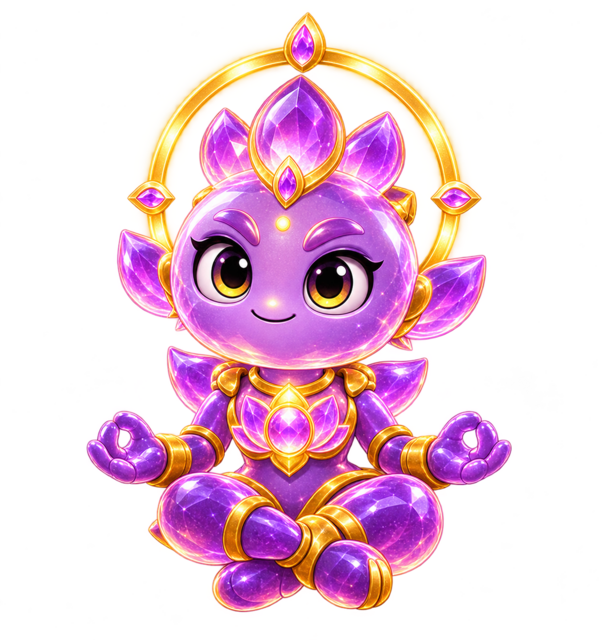
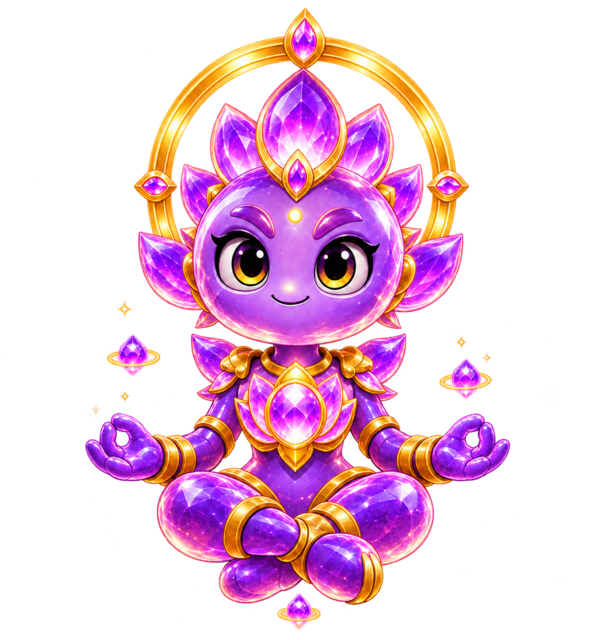
v11.00: natural companion motion and distinct evolution forms

diff --git a/park2.js b/park2.js
@@ -2,21 +2,21 @@
   'use strict';
 
   var CHARACTERS = [
-    { key:'ai_tools', label:'AI Tools', image:'img/lab/park2/ai-tools.png', type:'skill', home:[.17,.43], pace:.48,
+    { key:'ai_tools', label:'AI Tools', image:'img/lab/park2/ai-tools.png', type:'skill', home:[.17,.43], pace:.48, motion:'hover', roam:.21,
       states:['Scant het park','Bouwt een nieuw systeem','Analyseert patronen'], copy:'Wordt scherper, sneller en uitgebreider naarmate je meer met AI bouwt.' },
-    { key:'tennis', label:'Tennis', image:'img/lab/park2/tennis.png', type:'skill', home:[.78,.46], pace:.88,
+    { key:'tennis', label:'Tennis', image:'img/lab/park2/tennis.png', type:'skill', home:[.78,.46], pace:.88, motion:'dash', roam:.27,
       states:['Oefent de backhand','Jaagt op de bal','Neemt een korte adempauze'], copy:'Techniek en houding groeien mee: van oefenen naar wedstrijdklaar.' },
-    { key:'piano', label:'Piano', image:'img/lab/park2/piano.png', type:'skill', home:[.68,.71], pace:.28,
+    { key:'piano', label:'Piano', image:'img/lab/park2/piano.png', type:'skill', home:[.68,.71], pace:.28, motion:'stately', roam:.11,
       states:['Speelt een kleine frase','Luistert naar de stilte','Oefent dezelfde maat opnieuw'], copy:'Klank, expressie en podiumuitstraling worden rijker bij ieder nieuw niveau.' },
-    { key:'good_deed', label:'Good Deed', image:'img/lab/park2/good-deed.png', type:'habit', home:[.42,.40], pace:.52,
+    { key:'good_deed', label:'Good Deed', image:'img/lab/park2/good-deed.png', type:'habit', home:[.42,.40], pace:.52, motion:'gentle', roam:.20,
       states:['Helpt een parkgenoot','Laat het hart opladen','Kijkt wie iets nodig heeft'], copy:'Je dagelijkse goede daden houden zijn hart warm en zijn handen krachtig.' },
-    { key:'budgeting', label:'Budgeting', image:'img/lab/park2/budgeting.png', type:'habit', home:[.34,.72], pace:.38,
+    { key:'budgeting', label:'Budgeting', image:'img/lab/park2/budgeting.png', type:'habit', home:[.34,.72], pace:.38, motion:'shuffle', roam:.16,
       states:['Telt de voorraad','Plant nieuwe groei','Zet alles netjes op een rij'], copy:'Consistent plannen laat de muntvoorraad én de tuin rondom hem groeien.' },
-    { key:'sleep', label:'Sleep', image:'img/lab/park2/sleep.png', type:'habit', home:[.12,.76], pace:.22,
+    { key:'sleep', label:'Sleep', image:'img/lab/park2/sleep.png', type:'habit', home:[.12,.76], pace:.22, motion:'float', roam:.13,
       states:['Vangt een droomster','Maakt het kussen zacht','Laadt op onder de maan'], copy:'Rustige nachten vullen haar sterrenlicht en maken haar wolken steeds krachtiger.' },
-    { key:'walking', label:'10k Steps', image:'img/lab/park2/walking.png', type:'habit', home:[.87,.72], pace:1,
+    { key:'walking', label:'10k Steps', image:'img/lab/park2/walking.png', type:'habit', home:[.87,.72], pace:1, motion:'stride', roam:.31,
       states:['Verkent een nieuwe route','Telt iedere stap','Zet de vaart erin'], copy:'Elke actieve dag geeft deze verkenner meer uithoudingsvermogen, uitrusting en bereik.' },
-    { key:'meditation', label:'Meditation', image:'img/lab/park2/meditation.png', type:'habit', home:[.55,.58], pace:.16,
+    { key:'meditation', label:'Meditation', image:'img/lab/park2/meditation.png', type:'habit', home:[.55,.58], pace:.16, motion:'float', roam:.09,
       states:['Zoekt de stilte','Laat de kristallen ademen','Brengt het park tot rust'], copy:'Consistente meditatie opent nieuwe lotusblaadjes en versterkt haar kalme aura.' }
   ];
 
@@ -64,11 +64,17 @@
     return { stage:stage, index:stageIndex, next:next, nextAt:nextAt, progress:progress, prestige:!data.habit&&data.display>=100 };
   }
 
-  function loadEvolutionImage(img,config,evolution) {
+  function loadEvolutionImage(img,config,evolution,owner) {
     var candidate='img/lab/park2/'+(config.assetKey||config.key)+'/'+evolution.stage.key+'.png';
     var probe=new Image();
-    probe.onload=function(){img.src=candidate;img.dataset.evolutionAsset='true';};
-    probe.onerror=function(){img.dataset.evolutionAsset='fallback';};
+    probe.onload=function(){
+      img.src=candidate;img.dataset.evolutionAsset='true';
+      if (owner) owner.classList.add('has-evolution-art');
+    };
+    probe.onerror=function(){
+      img.dataset.evolutionAsset='fallback';
+      if (owner) owner.classList.add('uses-evolution-fallback');
+    };
     probe.src=candidate;
   }
 
@@ -93,17 +99,17 @@
     var evolution = evolutionFor(data);
     var button = document.createElement('button');
     button.type = 'button';
-    button.className = 'p2-agent p2-form-'+(evolution.index+1)+(evolution.prestige?' is-prestige':'');
+    button.className = 'p2-agent p2-motion-'+(config.motion||'gentle')+' p2-form-'+(evolution.index+1)+(evolution.prestige?' is-prestige':'');
     button.dataset.skill = config.key;
     button.dataset.evolution = evolution.stage.key;
     button.setAttribute('aria-label', config.label + ', ' + (data.habit ? 'score ' : 'level ') + data.display);
     button.style.setProperty('--mastery', (data.visual/100).toFixed(2));
     button.style.setProperty('--breath', (3.1 - data.visual/100).toFixed(2) + 's');
-    button.innerHTML = '<img src="'+config.image+'" alt="" draggable="false">'
+    button.innerHTML = '<span class="p2-sprite"><img src="'+config.image+'" alt="" draggable="false"></span>'
       + '<span class="p2-effect" aria-hidden="true"></span>'
       + '<span class="p2-badge"><span class="p2-agent-name">'+config.label+'</span><strong>'+(data.habit ? data.display+'/10' : 'L'+data.display)+'</strong></span>';
     agentsEl.appendChild(button);
-    loadEvolutionImage(button.querySelector('img'),config,evolution);
+    loadEvolutionImage(button.querySelector('img'),config,evolution,button);
 
     var roster = document.createElement('button');
     roster.type = 'button'; roster.textContent = config.label;
@@ -113,7 +119,8 @@
       config:config, data:data, evolution:evolution, el:button, roster:roster,
       x:config.home[0]*width, y:config.home[1]*height,
       targetX:config.home[0]*width, targetY:config.home[1]*height,
-      pause:70 + index*22, stateIndex:index%config.states.length, moving:false
+      pause:720 + index*145, stateIndex:index%config.states.length, moving:false,
+      vx:0, vy:0, facing:index%2 ? -1 : 1, wander:Math.random()*Math.PI*2
     };
     button.onclick = roster.onclick = function () {
       if (focusedAgent) setFocus(a, true);
@@ -181,38 +188,87 @@
 
   function newTarget(a) {
     if (focusedAgent) return;
-    var roam = a.config.key === 'piano' ? .11 : .2;
+    var roam = a.config.roam || .2;
     var x = a.config.home[0] + (Math.random()-.5)*roam*2;
     var y = a.config.home[1] + (Math.random()-.5)*roam*1.25;
     a.targetX = Math.max(55, Math.min(width-55, x*width));
     a.targetY = Math.max(215, Math.min(height-43, y*height));
-    a.pause = 80 + Math.random()*210;
+    a.pause = 0;
     a.stateIndex = Math.floor(Math.random()*a.config.states.length);
   }
 
+  function restDuration(a) {
+    if (a.config.motion==='dash' || a.config.motion==='stride') return 520 + Math.random()*1250;
+    if (a.config.motion==='float') return 1500 + Math.random()*2600;
+    if (a.config.motion==='stately') return 1250 + Math.random()*2100;
+    return 850 + Math.random()*1900;
+  }
+
+  function separation(a) {
+    if (focusedAgent) return { x:0, y:0 };
+    var pushX=0, pushY=0;
+    agents.forEach(function(other){
+      if (other===a) return;
+      var dx=a.x-other.x, dy=(a.y-other.y)*1.35;
+      var distance=Math.sqrt(dx*dx+dy*dy);
+      if (!distance || distance>=72) return;
+      var strength=(72-distance)/72*18;
+      pushX+=dx/distance*strength;
+      pushY+=dy/distance*strength*.55;
+    });
+    return { x:pushX, y:pushY };
+  }
+
   function updateAgent(a, delta) {
-    if (a.pause > 0) { a.pause -= delta*.06; a.moving = false; }
-    else {
-      var dx = a.targetX-a.x, dy = a.targetY-a.y;
-      var dist = Math.sqrt(dx*dx+dy*dy);
-      if (dist < 3) {
-        if (!focusedAgent) newTarget(a); else a.pause=20;
-        a.moving = false;
-      }
-      else {
-        var speed = (.016 + a.config.pace*.018) * delta;
-        a.x += dx/dist*speed; a.y += dy/dist*speed; a.moving = true;
+    var dt=Math.max(.001,Math.min(50,delta)/1000);
+    var dx=a.targetX-a.x, dy=a.targetY-a.y;
+    var dist=Math.sqrt(dx*dx+dy*dy);
+    var desiredX=0, desiredY=0;
+    if (!focusedAgent && a.pause>0) {
+      a.pause-=delta;
+      if (a.pause<=0) newTarget(a);
+    } else if (dist<5) {
+      if (!focusedAgent && a.pause<=0) a.pause=restDuration(a);
+    } else {
+      var maxSpeed=18+a.config.pace*42;
+      var arrival=Math.max(46,76-a.config.pace*18);
+      var desiredSpeed=maxSpeed*Math.min(1,dist/arrival);
+      desiredX=dx/dist*desiredSpeed;
+      desiredY=dy/dist*desiredSpeed;
+      if (!focusedAgent) {
+        var avoid=separation(a);
+        a.wander+=dt*(.7+a.config.pace*.55);
+        desiredX+=avoid.x+Math.cos(a.wander)*1.4;
+        desiredY+=avoid.y+Math.sin(a.wander*.73)*.9;
       }
     }
+    var accelerating=Math.abs(desiredX)+Math.abs(desiredY)>1;
+    var response=accelerating ? 3.2+a.config.pace*2.8 : 5.6;
+    var blend=Math.min(1,response*dt);
+    a.vx+=(desiredX-a.vx)*blend;
+    a.vy+=(desiredY-a.vy)*blend;
+    if (!accelerating && Math.abs(a.vx)<.35) a.vx=0;
+    if (!accelerating && Math.abs(a.vy)<.35) a.vy=0;
+    a.x+=a.vx*dt; a.y+=a.vy*dt;
+    a.x=Math.max(48,Math.min(width-48,a.x));
+    a.y=Math.max(205,Math.min(height-40,a.y));
+    var speed=Math.sqrt(a.vx*a.vx+a.vy*a.vy);
+    a.moving=speed>3.2 && dist>4;
+    if (Math.abs(a.vx)>2.4) a.facing=a.vx<0 ? -1 : 1;
     var perspective = .82 + (a.y/height)*.23;
     var levelScale = .92 + a.data.visual/100*.13;
+    var lean=a.moving ? Math.max(-4,Math.min(4,a.vx/(18+a.config.pace*42)*4)) : 0;
+    var stepRate=Math.max(.34,.72-speed/145);
     a.el.style.setProperty('--x', a.x.toFixed(1)+'px');
     a.el.style.setProperty('--y', a.y.toFixed(1)+'px');
     a.el.style.setProperty('--scale', (perspective*levelScale).toFixed(3));
+    a.el.style.setProperty('--facing', a.facing);
+    a.el.style.setProperty('--lean', lean.toFixed(2)+'deg');
+    a.el.style.setProperty('--step-rate', stepRate.toFixed(2)+'s');
+    a.el.style.setProperty('--ground-scale', (.9+Math.min(.18,speed/250)).toFixed(2));
     a.el.style.zIndex = Math.round(a.y);
     a.el.classList.toggle('is-moving', a.moving);
-    var image = a.el.querySelector('img');
-    if (image) image.style.scale = (a.moving && a.targetX<a.x) ? '-1 1' : '1 1';
+    a.el.classList.toggle('is-settling', !a.moving && speed>.6);
   }
 
   function loop(now) {

diff --git a/park2.css b/park2.css
@@ -32,7 +32,9 @@
 .park2-plant::after{left:3px;top:46%;transform:scaleX(-1) rotate(25deg)}
 .park2-agents{position:absolute;inset:0;z-index:10}
 .p2-agent{position:absolute;left:0;top:0;width:88px;height:112px;margin:-78px 0 0 -44px;border:0;background:transparent;cursor:pointer;transform:translate3d(var(--x),var(--y),0) scale(var(--scale));transform-origin:50% 86%;will-change:transform;transition:filter .25s,opacity .25s;filter:drop-shadow(0 11px 7px rgba(0,0,0,.38));padding:0;color:#fff}
-.p2-agent::after{content:"";position:absolute;z-index:-1;width:56px;height:15px;border-radius:50%;left:16px;bottom:19px;background:rgba(0,0,0,.3);filter:blur(3px);transform:scale(var(--ground-scale,1))}
+.p2-agent::after{content:"";position:absolute;z-index:-1;width:56px;height:15px;border-radius:50%;left:16px;bottom:19px;background:rgba(0,0,0,.3);filter:blur(3px);transform:scale(var(--ground-scale,1));transition:transform .24s ease,opacity .24s ease}
+.p2-sprite{position:absolute;inset:0;display:block;transform-origin:50% 84%;transform:scaleX(var(--facing,1)) rotate(var(--lean,0deg));transition:transform .18s cubic-bezier(.2,.7,.3,1),filter .35s ease;will-change:transform}
+.p2-sprite::after{content:"";position:absolute;z-index:-1;inset:7px 3px 16px;border:1px solid rgba(255,229,154,.15);border-radius:50%;opacity:0;transform:scale(.78);transition:opacity .35s,transform .35s,box-shadow .35s}
 .p2-agent img{position:absolute;inset:0;width:100%;height:100%;object-fit:contain;transform-origin:50% 82%;animation:p2breathe var(--breath,2.8s) ease-in-out infinite;pointer-events:none}
 .p2-agent[data-skill="ai_tools"] img{animation-name:p2hover}
 .p2-agent[data-skill="tennis"] img{animation-name:p2ready;transform-origin:54% 82%}
@@ -42,8 +44,27 @@
 .p2-agent[data-skill="sleep"] img{animation-name:p2sleep;filter:drop-shadow(0 0 calc(2px + 8px * var(--mastery)) rgba(146,183,255,.58))}
 .p2-agent[data-skill="walking"] img{animation-name:p2stride}
 .p2-agent[data-skill="meditation"] img{animation-name:p2meditate;filter:drop-shadow(0 0 calc(3px + 9px * var(--mastery)) rgba(202,121,255,.56))}
-.p2-agent.is-moving img{animation-duration:.42s;animation-name:p2walk}
-.p2-agent.is-reacting img{animation:.55s cubic-bezier(.2,.9,.3,1.4) p2react}
+.p2-agent.is-moving img{animation-duration:var(--step-rate,.48s);animation-timing-function:ease-in-out;animation-iteration-count:infinite}
+.p2-agent.is-moving.p2-motion-gentle img{animation-name:p2walkGentle}
+.p2-agent.is-moving.p2-motion-hover img{animation-name:p2walkHover}
+.p2-agent.is-moving.p2-motion-dash img{animation-name:p2walkDash}
+.p2-agent.is-moving.p2-motion-stately img{animation-name:p2walkStately}
+.p2-agent.is-moving.p2-motion-shuffle img{animation-name:p2walkShuffle}
+.p2-agent.is-moving.p2-motion-float img{animation-name:p2walkFloat}
+.p2-agent.is-moving.p2-motion-stride img{animation-name:p2walkStride}
+.p2-agent.is-settling .p2-sprite{transition-duration:.32s}
+.p2-agent.is-settling::after{opacity:.78}
+.p2-agent.is-reacting img{animation:.55s cubic-bezier(.2,.9,.3,1.4) p2react!important}
+.p2-agent.p2-form-1 .p2-sprite{filter:saturate(.82) brightness(.94)}
+.p2-agent.p2-form-2 .p2-sprite{filter:saturate(.94) brightness(.98)}
+.p2-agent.p2-form-2 .p2-sprite::after{opacity:.2;transform:scale(.84)}
+.p2-agent.p2-form-3 .p2-sprite{filter:saturate(1.04) brightness(1.01)}
+.p2-agent.p2-form-3 .p2-sprite::after{opacity:.35;transform:scale(.91);box-shadow:0 0 12px rgba(255,213,116,.14)}
+.p2-agent.p2-form-4 .p2-sprite{filter:saturate(1.1) brightness(1.035)}
+.p2-agent.p2-form-4 .p2-sprite::after{opacity:.5;transform:scale(.98);border-color:rgba(255,220,126,.35);box-shadow:0 0 17px rgba(255,205,102,.23)}
+.p2-agent.p2-form-5 .p2-sprite{filter:saturate(1.17) brightness(1.06)}
+.p2-agent.p2-form-5 .p2-sprite::after{opacity:.72;transform:scale(1.05);border-color:rgba(255,231,154,.52);box-shadow:0 0 23px rgba(255,208,97,.38),inset 0 0 18px rgba(255,239,184,.1);animation:p2formAura 2.4s ease-in-out infinite}
+.p2-agent.has-evolution-art .p2-badge{animation:p2badgeReveal .52s cubic-bezier(.2,.8,.3,1.25) both}
 .p2-agent.is-selected{filter:drop-shadow(0 0 13px rgba(255,210,112,.85)) drop-shadow(0 12px 8px rgba(0,0,0,.38))}
 .p2-agent.is-selected::before{content:"";position:absolute;inset:8px 4px 18px;border:1px solid rgba(255,214,130,.45);border-radius:50%;animation:p2select 1.5s ease-out infinite}
 .p2-badge{position:absolute;z-index:3;left:50%;bottom:2px;transform:translateX(-50%);display:flex;align-items:center;gap:4px;white-space:nowrap;padding:3px 6px;border-radius:999px;background:rgba(7,18,15,.82);border:1px solid rgba(255,255,255,.17);backdrop-filter:blur(6px);font:700 8px var(--font-body);box-shadow:0 3px 8px rgba(0,0,0,.25)}
@@ -86,8 +107,16 @@
 @keyframes p2sleep{0%,100%{transform:translateY(1px) rotate(-1deg)}50%{transform:translateY(-4px) rotate(1deg)}}
 @keyframes p2stride{0%,76%,100%{transform:translateY(0) rotate(0)}82%{transform:translateY(-4px) rotate(-2deg)}89%{transform:translateY(-1px) rotate(2deg)}}
 @keyframes p2meditate{0%,100%{transform:translateY(1px) scale(.995)}50%{transform:translateY(-5px) scale(1.015)}}
-@keyframes p2walk{0%,100%{transform:translateY(0) rotate(-1.2deg)}50%{transform:translateY(-4px) rotate(1.2deg)}}
+@keyframes p2walkGentle{0%,100%{transform:translateY(0) rotate(-.7deg)}25%{transform:translateY(-2px) rotate(.35deg)}50%{transform:translateY(-3.4px) rotate(.7deg)}75%{transform:translateY(-1px) rotate(-.25deg)}}
+@keyframes p2walkHover{0%,100%{transform:translateY(-1px) rotate(-.4deg)}35%{transform:translateY(-4.5px) rotate(.8deg)}70%{transform:translateY(-2px) rotate(-.2deg)}}
+@keyframes p2walkDash{0%,100%{transform:translateY(0) rotate(-1.6deg) scaleY(.985)}30%{transform:translateY(-5px) rotate(1.1deg) scaleY(1.025)}62%{transform:translateY(-1px) rotate(.5deg) scaleY(.99)}}
+@keyframes p2walkStately{0%,100%{transform:translateY(0) rotate(-.25deg)}40%{transform:translateY(-2px) rotate(.3deg)}72%{transform:translateY(-.7px) rotate(.1deg)}}
+@keyframes p2walkShuffle{0%,100%{transform:translate(0,0) rotate(-.6deg)}32%{transform:translate(1px,-2px) rotate(.6deg)}66%{transform:translate(-1px,-1px) rotate(-.2deg)}}
+@keyframes p2walkFloat{0%,100%{transform:translateY(-1px) scale(.995)}50%{transform:translateY(-5px) scale(1.012)}}
+@keyframes p2walkStride{0%,100%{transform:translateY(0) rotate(-1.8deg) scaleY(.98)}24%{transform:translateY(-5px) rotate(.9deg) scaleY(1.025)}55%{transform:translateY(-1px) rotate(1.4deg) scaleY(.99)}78%{transform:translateY(-4px) rotate(-.4deg) scaleY(1.015)}}
 @keyframes p2react{35%{transform:translateY(-12px) scale(1.06)}70%{transform:translateY(2px) scale(.98)}}
+@keyframes p2badgeReveal{0%{transform:translateX(-50%) translateY(4px) scale(.88);filter:brightness(1.4);opacity:.2}70%{transform:translateX(-50%) translateY(-1px) scale(1.04)}100%{transform:translateX(-50%) scale(1);opacity:1}}
+@keyframes p2formAura{50%{opacity:.42;transform:scale(1.11);box-shadow:0 0 29px rgba(255,208,97,.46),inset 0 0 20px rgba(255,239,184,.13)}}
 @keyframes p2select{0%{transform:scale(.68);opacity:.7}100%{transform:scale(1.08);opacity:0}}
 @keyframes p2code{0%,100%{transform:translateY(6px);opacity:0}25%,70%{opacity:1}80%{transform:translateY(-7px);opacity:0}}
 @keyframes p2ball{0%,100%{transform:translate(0,0) scale(.8);opacity:.25}35%{transform:translate(-7px,-35px) scale(1);opacity:1}68%{transform:translate(-28px,-5px) scale(.9);opacity:.8}}
@@ -100,4 +129,4 @@
 @keyframes p2crown{50%{transform:translateX(-50%) translateY(-2px) scale(1.08);filter:brightness(1.18)}}
 @keyframes p2focus{0%{transform:scale(.7);opacity:.8}100%{transform:scale(1.13);opacity:0}}
 @media (max-width:390px){.park2-stage{height:400px}.p2-agent{width:76px;height:100px;margin:-69px 0 0 -38px}.park2-roster button{font-size:8px;padding-inline:2px}.park2-title{font-size:17px}.park2-detail-state{font-size:8px;white-space:normal;text-align:right}.park2-evolution-track{grid-template-columns:repeat(5,10px) 1fr;gap:4px}.park2-evolution-track span{font-size:7px}}
-@media (prefers-reduced-motion:reduce){.park2 *{animation:none!important}.park2-live-dot{box-shadow:none}.park2-sound{display:none}}
+@media (prefers-reduced-motion:reduce){.park2 *{animation:none!important}.park2-live-dot{box-shadow:none}.park2-sound{display:none}.p2-sprite{transition:none}}

diff --git a/tests/park2-smoke.js b/tests/park2-smoke.js
@@ -4,6 +4,7 @@
 'use strict';
 
 const assert = require('node:assert/strict');
+const crypto = require('node:crypto');
 const fs = require('node:fs');
 const path = require('node:path');
 const vm = require('node:vm');
@@ -96,7 +97,8 @@ class FakeImage {
   set src(value) {
     this._src = value;
     const available = value.endsWith('/sleep/advanced.png') || value.endsWith('/sleep/mastery.png')
-      || value.endsWith('/meditation/advanced.png') || value.endsWith('/meditation/mastery.png');
+      || value.endsWith('/meditation/advanced.png') || value.endsWith('/meditation/mastery.png')
+      || value.endsWith('/walking/advanced.png') || value.endsWith('/walking/mastery.png');
     if (available && this.onload) this.onload();
     if (!available && this.onerror) this.onerror();
   }
@@ -110,6 +112,14 @@ const sandboxWindow = {
   getHabits: () => Object.fromEntries(Object.entries(habitScores).map(([key,score]) => [key,{score}]))
 };
 
+let queuedFrame = null;
+let randomSeed = 246813579;
+const testMath = Object.create(Math);
+testMath.random = () => {
+  randomSeed = (randomSeed * 1664525 + 1013904223) >>> 0;
+  return randomSeed / 4294967296;
+};
+
 const sandbox = {
   window: sandboxWindow,
   document: {
@@ -117,12 +127,12 @@ const sandbox = {
     getElementById: id => ids[id] || null
   },
   Image: FakeImage,
-  requestAnimationFrame: () => 1,
+  requestAnimationFrame: callback => { queuedFrame = callback; return 1; },
   setTimeout: fn => { fn(); return 1; },
   clearTimeout: () => {},
   console,
   Date,
-  Math,
+  Math:testMath,
   Number
 };
 sandboxWindow.addEventListener = () => {};
@@ -142,6 +152,47 @@ assert.equal(bySkill('good_deed').dataset.evolution, 'expert');
 assert.ok(bySkill('ai_tools').classList.contains('is-prestige'), 'level 100 gets prestige');
 assert.equal(bySkill('sleep').querySelector('img').src, 'img/lab/park2/sleep/advanced.png');
 assert.equal(bySkill('meditation').querySelector('img').src, 'img/lab/park2/meditation/mastery.png');
+const asset = relative => path.join(__dirname, '..', 'img', 'lab', 'park2', relative);
+const digest = relative => crypto.createHash('sha256').update(fs.readFileSync(asset(relative))).digest('hex');
+['sleep/advanced.png','meditation/advanced.png','walking/advanced.png','walking/mastery.png'].forEach(relative => {
+  const png = fs.readFileSync(asset(relative));
+  assert.equal(png.subarray(1,4).toString(), 'PNG', relative + ' is a PNG asset');
+  assert.equal(png[25], 6, relative + ' keeps an RGBA alpha channel');
+});
+assert.notEqual(digest('sleep.png'), digest('sleep/advanced.png'), 'Sleep Advanced is not a copied base form');
+assert.notEqual(digest('meditation.png'), digest('meditation/advanced.png'), 'Meditation Advanced is not a copied base form');
+assert.notEqual(digest('walking.png'), digest('walking/advanced.png'), 'Walking Advanced is a real distinct form');
+assert.notEqual(digest('walking/advanced.png'), digest('walking/mastery.png'), 'Walking Mastery differs from Advanced');
+assert.ok(source.includes('p2-sprite'), 'characters use a separate sprite wrapper for smooth turning');
+assert.ok(bySkill('walking').classList.contains('p2-motion-stride'), 'walking has its own gait');
+assert.ok(bySkill('meditation').classList.contains('p2-motion-float'), 'meditation keeps a floating gait');
+
+const walkingTrail = [];
+let now = 0;
+for (let frame = 0; frame < 170; frame++) {
+  const callback = queuedFrame;
+  assert.equal(typeof callback, 'function', 'animation loop schedules the next frame');
+  queuedFrame = null;
+  now += 40;
+  callback(now);
+  const style = bySkill('walking').style.values;
+  walkingTrail.push([parseFloat(style['--x']), parseFloat(style['--y'])]);
+}
+const travelled = walkingTrail.reduce((sum, point, index) => {
+  if (!index) return sum;
+  const previous = walkingTrail[index - 1];
+  return sum + Math.hypot(point[0] - previous[0], point[1] - previous[1]);
+}, 0);
+const biggestStep = walkingTrail.reduce((largest, point, index) => {
+  if (!index) return largest;
+  const previous = walkingTrail[index - 1];
+  return Math.max(largest, Math.hypot(point[0] - previous[0], point[1] - previous[1]));
+}, 0);
+assert.ok(travelled > 12, 'the walking companion naturally leaves its resting spot');
+assert.ok(biggestStep < 4, 'steering never teleports a companion between frames');
+assert.ok(bySkill('walking').style.values['--step-rate'], 'gait speed follows actual travel speed');
+assert.ok(bySkill('walking').style.values['--lean'], 'movement exposes a soft body lean');
+assert.ok(bySkill('walking').style.values['--facing'], 'turning exposes a stable facing direction');
 
 ids.park2FocusToggle.onclick();
 assert.ok(root.classList.contains('is-focus-mode'), 'focus mode activates');
@@ -156,4 +207,4 @@ ids.park2FocusToggle.onclick();
 assert.ok(!root.classList.contains('is-focus-mode'), 'focus mode releases');
 assert.equal(agents.children.filter(agent => agent.classList.contains('is-focus-lead')).length, 0);
 
-console.log('Park 2.0 smoke test passed: 8 companions, evolution bands, prestige and focus switching.');
+console.log('Park 2.0 smoke test passed: 8 companions, natural steering, distinct evolution art, prestige and focus switching.');

diff --git a/img/lab/park2/README.md b/img/lab/park2/README.md
@@ -44,11 +44,13 @@ Gewone skills gebruiken leveldrempels 1 / 10 / 25 / 50 / 75, met een extra prest
 
 Huidige echte vormassets:
 
-- `sleep/advanced.png` — de huidige middenvorm;
+- `sleep/advanced.png` — echte middenvorm met compact sterrenorbit, korte droomcape, crescent-sluiting en zwaardere wolkenlaarzen;
 - `sleep/mastery.png` — zichtbare celestial guardian-evolutie met grotere anatomie, wolken-/constellatiecape, maankroon en uitgebreid herstelrelic.
-- `meditation/advanced.png` — de huidige middenvorm;
+- `meditation/advanced.png` — echte middenvorm met extra lotuspetalen, groter kernkristal, verfijnde armbanden en drie beheerste kristallichten;
 - `meditation/mastery.png` — zichtbare lotus guardian-evolutie met volwassen anatomie, beschermende kristalpetalen, meervoudige halo en beheerste kristalorbit.
+- `walking/advanced.png` — echte middenvorm met verbeterde trailboots, routekaart, grotere rugzak en uitgebreidere stappenteller;
+- `walking/mastery.png` — eindvorm als legendarische routeverkenner met expeditierugzak, vijfbladige crest, master-kompas en voltooide-route-aura.
 
-De eerste gegenereerde Sleep Starter- en 10k Steps Mastery-pogingen hadden een ingebakken achtergrond/checkerboard en zijn daarom bewust **niet** in de repository opgenomen. Ontbrekende vormen blijven dus eerlijk als open art-productie gelden; de engine doet niet alsof een schaal- of kleurfilter een echte evolutie is.
+Afgekeurde renders met een ingebakken achtergrond/checkerboard zijn bewust **niet** in de repository opgenomen. Meditation Advanced is na een aparte background-extraction technisch opnieuw gecontroleerd op echte alpha. Ontbrekende vormen blijven eerlijk als open art-productie gelden; de engine gebruikt dan het basisbeeld met een bescheiden vorm-aura, maar doet niet alsof dat al een volledig nieuwe anatomische asset is.
 
-Promptfamilie nieuwe companions: premium transparante 3D game-companion, direct leesbaar skill-silhouet, grote expressieve ogen, echte losse armen/benen voor webbeweging, goudaccenten, geen tekst/logo/scenery en consistent met de bestaande Good Deed/Budgeting/Tennis-familie. Gegenereerd met de ingebouwde **OpenAI Image Generation**-tool; selectie, transparantiecontrole, verkleining en integratie zijn uitgevoerd door **ChatGPT (OpenAI)**.
+Promptfamilie nieuwe companions en evoluties: premium transparante 3D game-companion, direct leesbaar skill-silhouet, grote expressieve ogen, echte losse armen/benen voor webbeweging, goudaccenten, dezelfde identiteit tussen vormen, geen tekst/logo/scenery en consistent met de bestaande Good Deed/Budgeting/Tennis-familie. Gegenereerd met de ingebouwde **OpenAI Image Generation**-tool; selectie, transparantiecontrole, verkleining en integratie zijn uitgevoerd door **ChatGPT (OpenAI)**.
